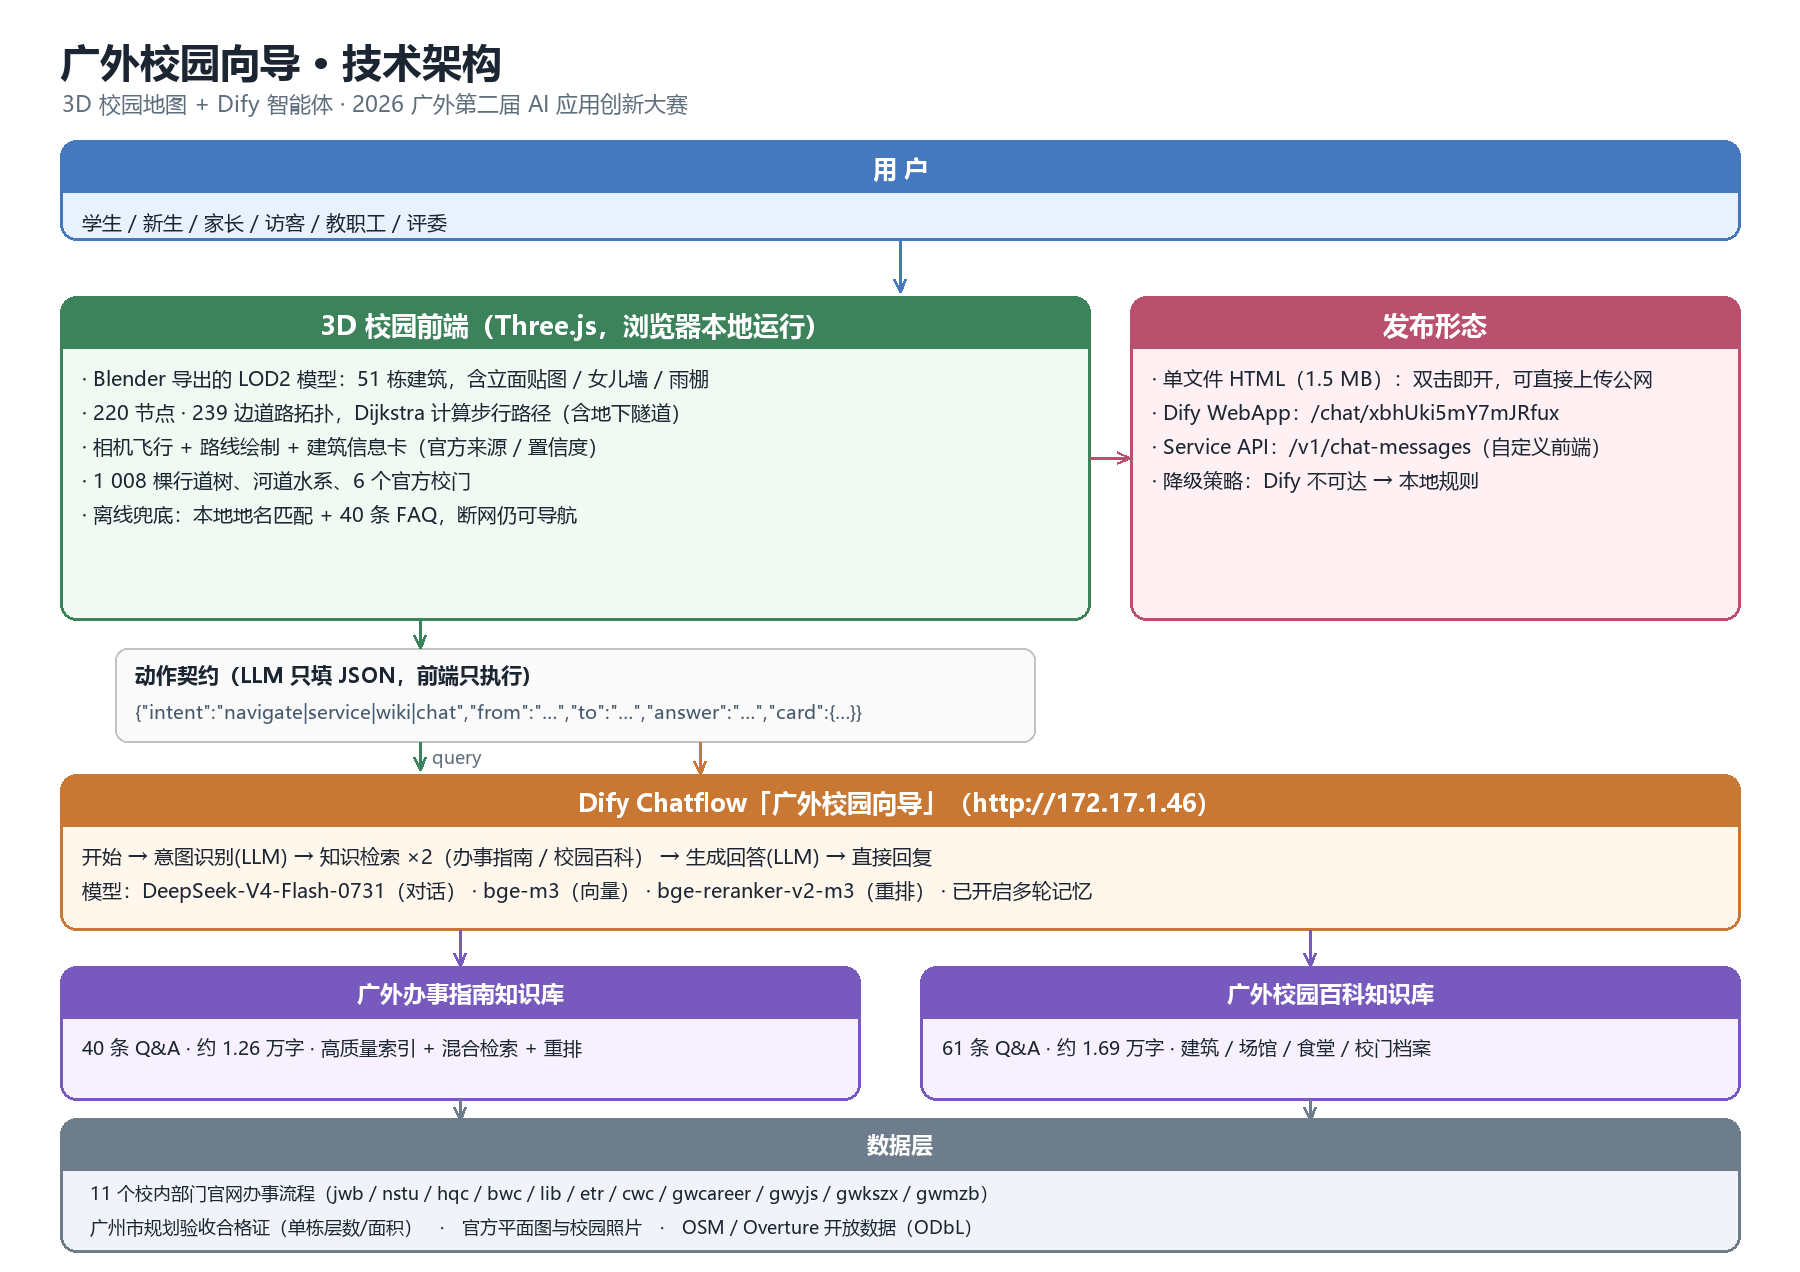
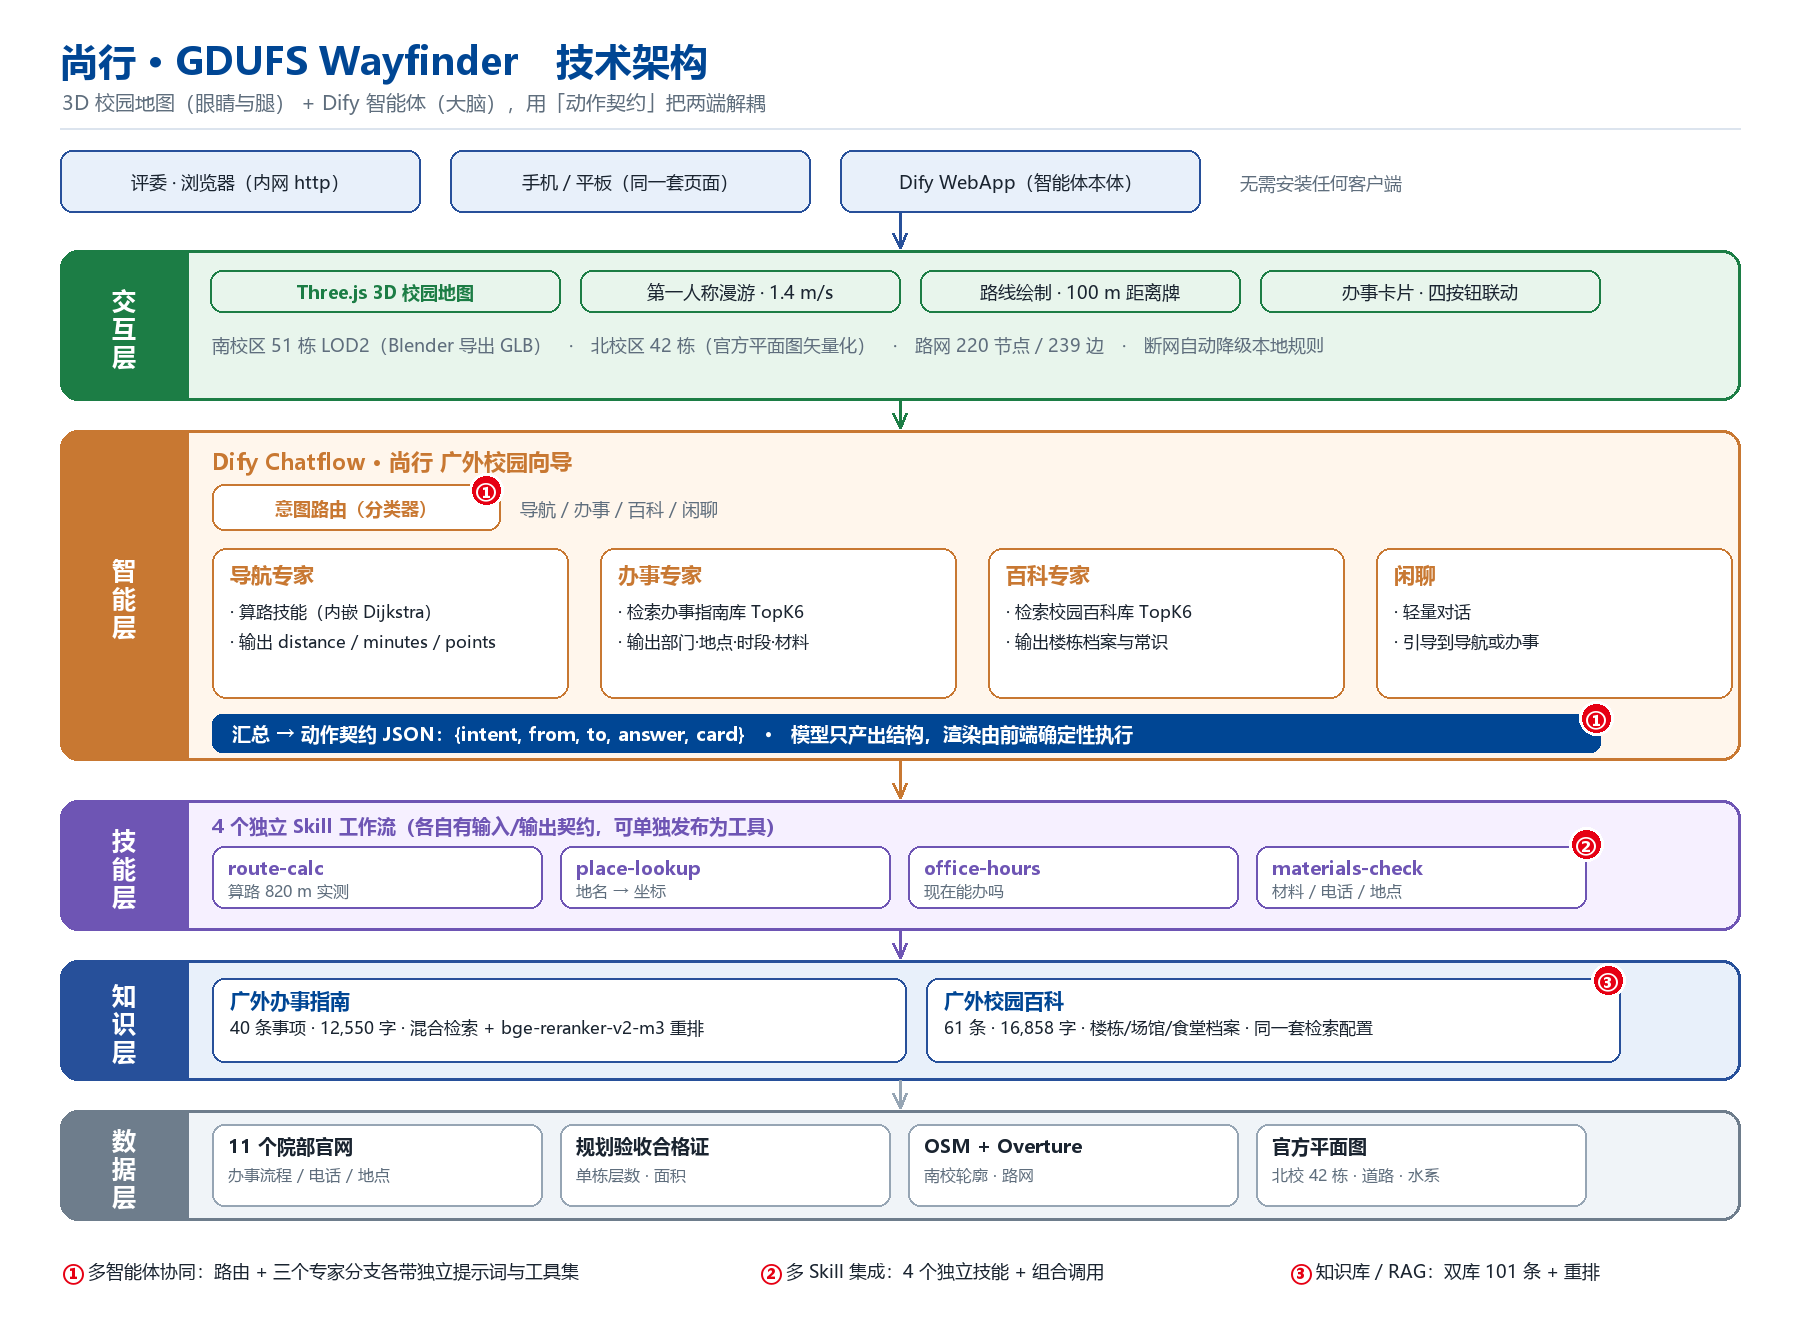
A3: 架构图重画（六层 + 三加分项编号 ①②③）+ docs/10 技术架构说明（含 420 字正文与加分项对照表）

diff --git a/tools/make_arch_diagram_v2.py b/tools/make_arch_diagram_v2.py
@@ -1,0 +1,209 @@
+# -*- coding: utf-8 -*-
+"""生成「尚行 · 广外校园向导」技术架构图（初赛方案用）。
+
+三个技术加分项在图上用 ①②③ 标出，正文可直接引用编号：
+  ① 多智能体协同（路由 + 三个专家分支）
+  ② 多 Skill 集成与组合调用（4 个独立技能）
+  ③ 知识库 / RAG 接入（双库 + 重排）
+
+用法：python tools/make_arch_diagram_v2.py
+输出：deliverables/架构图.png
+"""
+import math
+import os
+
+from PIL import Image, ImageDraw, ImageFont
+
+OUT = r"C:\Users\86134\Desktop\gdufs\deliverables"
+os.makedirs(OUT, exist_ok=True)
+
+W, H = 1800, 1340
+BG = (255, 255, 255)
+INK = (26, 36, 48)
+MUTED = (95, 110, 125)
+LINE = (170, 185, 200)
+
+BLUE_D = (0, 70, 148)
+BLUE = (39, 80, 154)
+BLUE_L = (232, 240, 250)
+RED = (230, 0, 19)
+RED_L = (253, 236, 238)
+GREEN = (28, 125, 69)
+GREEN_L = (232, 245, 236)
+AMBER = (200, 120, 50)
+AMBER_L = (255, 246, 236)
+PURPLE = (110, 85, 180)
+PURPLE_L = (246, 240, 255)
+GRAY_L = (240, 244, 248)
+
+F_BOLD = "C:/Windows/Fonts/msyhbd.ttc"
+F_REG = "C:/Windows/Fonts/msyh.ttc"
+
+
+def font(size, bold=False):
+    return ImageFont.truetype(F_BOLD if bold else F_REG, size)
+
+
+img = Image.new("RGB", (W, H), BG)
+d = ImageDraw.Draw(img)
+
+
+def band(x0, y0, x1, y1, title, color, fill):
+    d.rounded_rectangle([x0, y0, x1, y1], radius=18, fill=fill, outline=color, width=3)
+    d.rounded_rectangle([x0, y0, x0 + 128, y1], radius=18, fill=color)
+    d.rectangle([x0 + 110, y0, x0 + 128, y1], fill=color)
+    # 竖排标签
+    label = title
+    fs = 24
+    total = len(label) * (fs + 4)
+    ty = y0 + (y1 - y0 - total) / 2
+    for ch in label:
+        tw = d.textlength(ch, font=font(fs, True))
+        d.text((x0 + 64 - tw / 2, ty), ch, font=font(fs, True), fill=(255, 255, 255))
+        ty += fs + 4
+
+
+def chip(x0, y0, x1, y1, text, color, fill, size=18, bold=False):
+    d.rounded_rectangle([x0, y0, x1, y1], radius=12, fill=fill, outline=color, width=2)
+    tw = d.textlength(text, font=font(size, bold))
+    d.text((x0 + (x1 - x0 - tw) / 2, y0 + (y1 - y0 - size * 1.35) / 2), text,
+           font=font(size, bold), fill=INK if not bold else color)
+
+
+def badge(cx, cy, num, color):
+    r = 17
+    d.ellipse([cx - r, cy - r, cx + r, cy + r], fill=color, outline=(255, 255, 255), width=3)
+    t = num
+    tw = d.textlength(t, font=font(20, True))
+    d.text((cx - tw / 2, cy - 14), t, font=font(20, True), fill=(255, 255, 255))
+
+
+def arrow(x0, y0, x1, y1, color=LINE, width=3):
+    d.line([x0, y0, x1, y1], fill=color, width=width)
+    ang = math.atan2(y1 - y0, x1 - x0)
+    L = 16
+    for s in (0.45, -0.45):
+        d.line([x1, y1, x1 - L * math.cos(ang - s), y1 - L * math.sin(ang - s)], fill=color, width=width)
+
+
+# ---------- 标题 ----------
+d.text((60, 34), "尚行 · GDUFS Wayfinder　技术架构", font=font(38, True), fill=BLUE_D)
+d.text((62, 88), "3D 校园地图（眼睛与腿） + Dify 智能体（大脑），用「动作契约」把两端解耦",
+       font=font(20), fill=MUTED)
+d.line([60, 128, 1740, 128], fill=(220, 228, 238), width=2)
+
+# ---------- ① 用户层 ----------
+y = 150
+chip(60, y, 420, y + 62, "评委 · 浏览器（内网 http）", BLUE, BLUE_L)
+chip(450, y, 810, y + 62, "手机 / 平板（同一套页面）", BLUE, BLUE_L)
+chip(840, y, 1200, y + 62, "Dify WebApp（智能体本体）", BLUE, BLUE_L)
+d.text((1240, y + 20), "无需安装任何客户端", font=font(18), fill=MUTED)
+
+# ---------- ② 交互层 ----------
+y2 = 250
+band(60, y2, 1740, y2 + 150, "交互层", GREEN, GREEN_L)
+chip(210, y2 + 20, 560, y2 + 62, "Three.js 3D 校园地图", GREEN,
+     (255, 255, 255) if False else GREEN_L, bold=True)
+chip(580, y2 + 20, 900, y2 + 62, "第一人称漫游 · 1.4 m/s", GREEN, GREEN_L)
+chip(920, y2 + 20, 1240, y2 + 62, "路线绘制 · 100 m 距离牌", GREEN, GREEN_L)
+chip(1260, y2 + 20, 1600, y2 + 62, "办事卡片 · 四按钮联动", GREEN, GREEN_L)
+d.text((212, y2 + 82), "南校区 51 栋 LOD2（Blender 导出 GLB）　·　北校区 42 栋（官方平面图矢量化）　·　"
+                       "路网 220 节点 / 239 边　·　断网自动降级本地规则",
+       font=font(18), fill=MUTED)
+
+# ---------- ③ 智能层 ----------
+y3 = 430
+band(60, y3, 1740, y3 + 330, "智能层", AMBER, AMBER_L)
+d.text((212, y3 + 16), "Dify Chatflow · 尚行 广外校园向导", font=font(22, True), fill=AMBER)
+
+chip(212, y3 + 54, 500, y3 + 100, "意图路由（分类器）", AMBER, (255, 255, 255), bold=True)
+badge(486, y3 + 60, "①", RED)
+d.text((520, y3 + 66), "导航 / 办事 / 百科 / 闲聊", font=font(18), fill=MUTED)
+
+branches = [
+    ("导航专家", ["算路技能（内嵌 Dijkstra）", "输出 distance / minutes / points"], 212),
+    ("办事专家", ["检索办事指南库 TopK6", "输出部门·地点·时段·材料"], 600),
+    ("百科专家", ["检索校园百科库 TopK6", "输出楼栋档案与常识"], 988),
+    ("闲聊", ["轻量对话", "引导到导航或办事"], 1376),
+]
+for name, lines, bx in branches:
+    d.rounded_rectangle([bx, y3 + 118, bx + 356, y3 + 268], radius=14,
+                        fill=(255, 255, 255), outline=AMBER, width=2)
+    d.text((bx + 18, y3 + 130), name, font=font(21, True), fill=AMBER)
+    yy = y3 + 170
+    for ln in lines:
+        d.text((bx + 18, yy), "· " + ln, font=font(17), fill=INK)
+        yy += 30
+
+d.rounded_rectangle([212, y3 + 284, 1600, y3 + 322], radius=10, fill=BLUE_D)
+d.text((232, y3 + 290), "汇总 → 动作契约 JSON：{intent, from, to, answer, card}　·　"
+                        "模型只产出结构，渲染由前端确定性执行",
+       font=font(19, True), fill=(255, 255, 255))
+badge(1596, y3 + 288, "①", RED)
+
+# ---------- ④ 技能层 ----------
+y4 = 800
+band(60, y4, 1740, y4 + 130, "技能层", PURPLE, PURPLE_L)
+d.text((212, y4 + 12), "4 个独立 Skill 工作流（各自有输入/输出契约，可单独发布为工具）",
+       font=font(19, True), fill=PURPLE)
+skills = [
+    ("route-calc", "算路 820 m 实测"),
+    ("place-lookup", "地名 → 坐标"),
+    ("office-hours", "现在能办吗"),
+    ("materials-check", "材料 / 电话 / 地点"),
+]
+sx = 212
+for name, sub in skills:
+    d.rounded_rectangle([sx, y4 + 46, sx + 330, y4 + 108], radius=12,
+                        fill=(255, 255, 255), outline=PURPLE, width=2)
+    d.text((sx + 16, y4 + 54), name, font=font(19, True), fill=PURPLE)
+    d.text((sx + 16, y4 + 80), sub, font=font(16), fill=MUTED)
+    sx += 348
+badge(sx - 18, y4 + 44, "②", RED)
+
+# ---------- ⑤ 知识层 ----------
+y5 = 960
+band(60, y5, 1740, y5 + 120, "知识层", BLUE, BLUE_L)
+d.rounded_rectangle([212, y5 + 18, 906, y5 + 102], radius=12, fill=(255, 255, 255), outline=BLUE, width=2)
+d.text((230, y5 + 26), "广外办事指南", font=font(20, True), fill=BLUE_D)
+d.text((230, y5 + 56), "40 条事项 · 12,550 字 · 混合检索 + bge-reranker-v2-m3 重排", font=font(17), fill=INK)
+d.rounded_rectangle([926, y5 + 18, 1620, y5 + 102], radius=12, fill=(255, 255, 255), outline=BLUE, width=2)
+d.text((944, y5 + 26), "广外校园百科", font=font(20, True), fill=BLUE_D)
+d.text((944, y5 + 56), "61 条 · 16,858 字 · 楼栋/场馆/食堂档案 · 同一套检索配置", font=font(17), fill=INK)
+badge(1608, y5 + 20, "③", RED)
+
+# ---------- ⑥ 数据层 ----------
+y6 = 1110
+band(60, y6, 1740, y6 + 110, "数据层", (110, 125, 140), GRAY_L)
+srcs = [
+    ("11 个院部官网", "办事流程 / 电话 / 地点"),
+    ("规划验收合格证", "单栋层数 · 面积"),
+    ("OSM + Overture", "南校轮廓 · 路网"),
+    ("官方平面图", "北校 42 栋 · 道路 · 水系"),
+]
+sx = 212
+for name, sub in srcs:
+    d.rounded_rectangle([sx, y6 + 14, sx + 330, y6 + 96], radius=12, fill=(255, 255, 255),
+                        outline=(150, 165, 180), width=2)
+    d.text((sx + 16, y6 + 22), name, font=font(19, True), fill=INK)
+    d.text((sx + 16, y6 + 54), sub, font=font(16), fill=MUTED)
+    sx += 348
+
+# ---------- 箭头 ----------
+arrow(900, 212, 900, 248, BLUE)
+arrow(900, 400, 900, 428, GREEN)
+arrow(900, 760, 900, 798, AMBER)
+arrow(900, 930, 900, 958, PURPLE)
+arrow(900, 1080, 900, 1108, (150, 165, 180))
+
+# ---------- 图例 ----------
+d.text((62, 1256), "①", font=font(22, True), fill=RED)
+d.text((88, 1258), "多智能体协同：路由 + 三个专家分支各带独立提示词与工具集", font=font(18), fill=INK)
+d.text((760, 1256), "②", font=font(22, True), fill=RED)
+d.text((786, 1258), "多 Skill 集成：4 个独立技能 + 组合调用", font=font(18), fill=INK)
+d.text((1290, 1256), "③", font=font(22, True), fill=RED)
+d.text((1316, 1258), "知识库 / RAG：双库 101 条 + 重排", font=font(18), fill=INK)
+
+out = os.path.join(OUT, "架构图.png")
+img.save(out)
+print("saved", out, img.size)

diff --git a/docs/10-技术架构说明.md b/docs/10-技术架构说明.md
@@ -1,0 +1,51 @@
+# 技术架构说明（可直接用于初赛设计方案）
+
+> 配套图：`deliverables/架构图.png`（1800×1340）
+> 生成脚本：`tools/make_arch_diagram_v2.py`
+
+---
+
+## 一、正文用文（约 420 字，可直接粘进 DOCX 的「技术方案」栏）
+
+作品采用"前端渲染 + 智能体决策"的分层架构，两层之间用**动作契约**解耦：大模型只输出结构化动作 JSON（`intent / from / to / answer / card`），画路线、飞相机、弹卡片全部由前端确定性代码执行。这样既避免"AI 说往东走、地图纹丝不动"的割裂，也让同一套智能体可被网页、小程序、公众号复用。
+
+**交互层**是自研的 Three.js 3D 校园地图：南校区 51 栋采用 Blender 无头脚本生成 LOD2 模型并导出 GLB，立面按 3.6 m 开间 × 3.6 m 层高展开；北校区 42 栋由学校官方平面图矢量化得到（跑道标定 0.4178 m/px）。路网 220 节点 / 239 边，Dijkstra 求最短路径，支持第一人称漫游。
+
+**智能层**是一条 Chatflow：意图路由把问题分到导航、办事、百科、闲聊四条分支，每条分支由独立的专家节点处理——导航专家调用算路技能，办事专家检索办事指南库，百科专家检索校园百科库，最后经变量汇总统一输出动作契约。①
+
+**技能层**沉淀了 4 个可独立发布的 Skill：`route-calc`（算路）、`place-lookup`（地名解析）、`office-hours`（办公时段判定）、`materials-check`（材料与办理点）。它们各自有明确的输入输出契约，既可被主应用组合调用，也能单独发布为工具。②
+
+**知识层**是双库：广外办事指南 40 条 12,550 字、广外校园百科 61 条 16,858 字，均配置混合检索 + bge-reranker-v2-m3 重排，TopK 6。③
+
+**数据层**全部可溯源：11 个院部官网的一手页面、广州市规划验收合格证（单栋层数/面积）、OpenStreetMap 与 Overture（轮廓与路网）、学校官方平面图（北校区）。
+
+---
+
+## 二、加分项对照表（答辩可直接照读）
+
+| 评分细则 | 分值 | 我们的实现 | 图上位置 | 可验证证据 |
+|---|---|---|---|---|
+| 【加分】多智能体协同 | +4 | 意图路由 + 导航/办事/百科三个专家分支，各自独立提示词与工具集 | ① 智能层 | Dify 应用 `7673c750`，11 节点 13 边 |
+| 【加分】多 Skill 集成与组合调用 | +4 | 4 个独立技能工作流，各有 I/O 契约，可单独发布为工具 | ② 技能层 | `skills/dsl/*.yml`，4 个已发布应用 |
+| 【加分】知识库/RAG 接入 | +4 | 双知识库 101 条，混合检索 + 重排，TopK 6 | ③ 知识层 | Dify 知识库两个，检索命中率实测 |
+| 技术架构合理性与系统设计 | 8 | 动作契约解耦、双通道降级、单文件交付 | 全图 | 见"三个设计决定" |
+
+---
+
+## 三、三个设计决定（差异化说明）
+
+1. **动作契约**：模型不直接对用户"说话"就完事，而是产出结构化动作，渲染交给前端。这是"AI + 地图"能做到准确的前提——把理解交给概率模型，把绘制交给确定性代码。
+2. **双通道降级**：Dify 部署在校内网，公网或断网时前端自动切到本地规则（地名匹配 + 40 条 FAQ），作品在任何网络环境下都不白屏。
+3. **单文件交付**：Three.js、数据、GLB 全部内联进一个 1.5 MB 的 HTML，双击即开，可直接放到任意静态目录。
+
+---
+
+## 四、实测数据（答辩用）
+
+| 项 | 数值 |
+|---|---|
+| 算路准确性 | 文采园 → 图书馆 820 m / 12 min（与前端逐点一致） |
+| 地名解析 | "从一饭去图书馆" → 文采园（第一饭堂），候选含图书馆 |
+| 办公时段判定 | 成绩单（南校，周三 13:20）→ 已下班，下次 08:30 |
+| 材料查询 | 成绩单 → 4 项材料 + 双校区办理点（行政楼 121 / 行政办公楼 224） |
+| 分支响应 | 导航 4.0 s · 办事 5.3 s · 百科 3.8 s · 闲聊 4.1 s |
